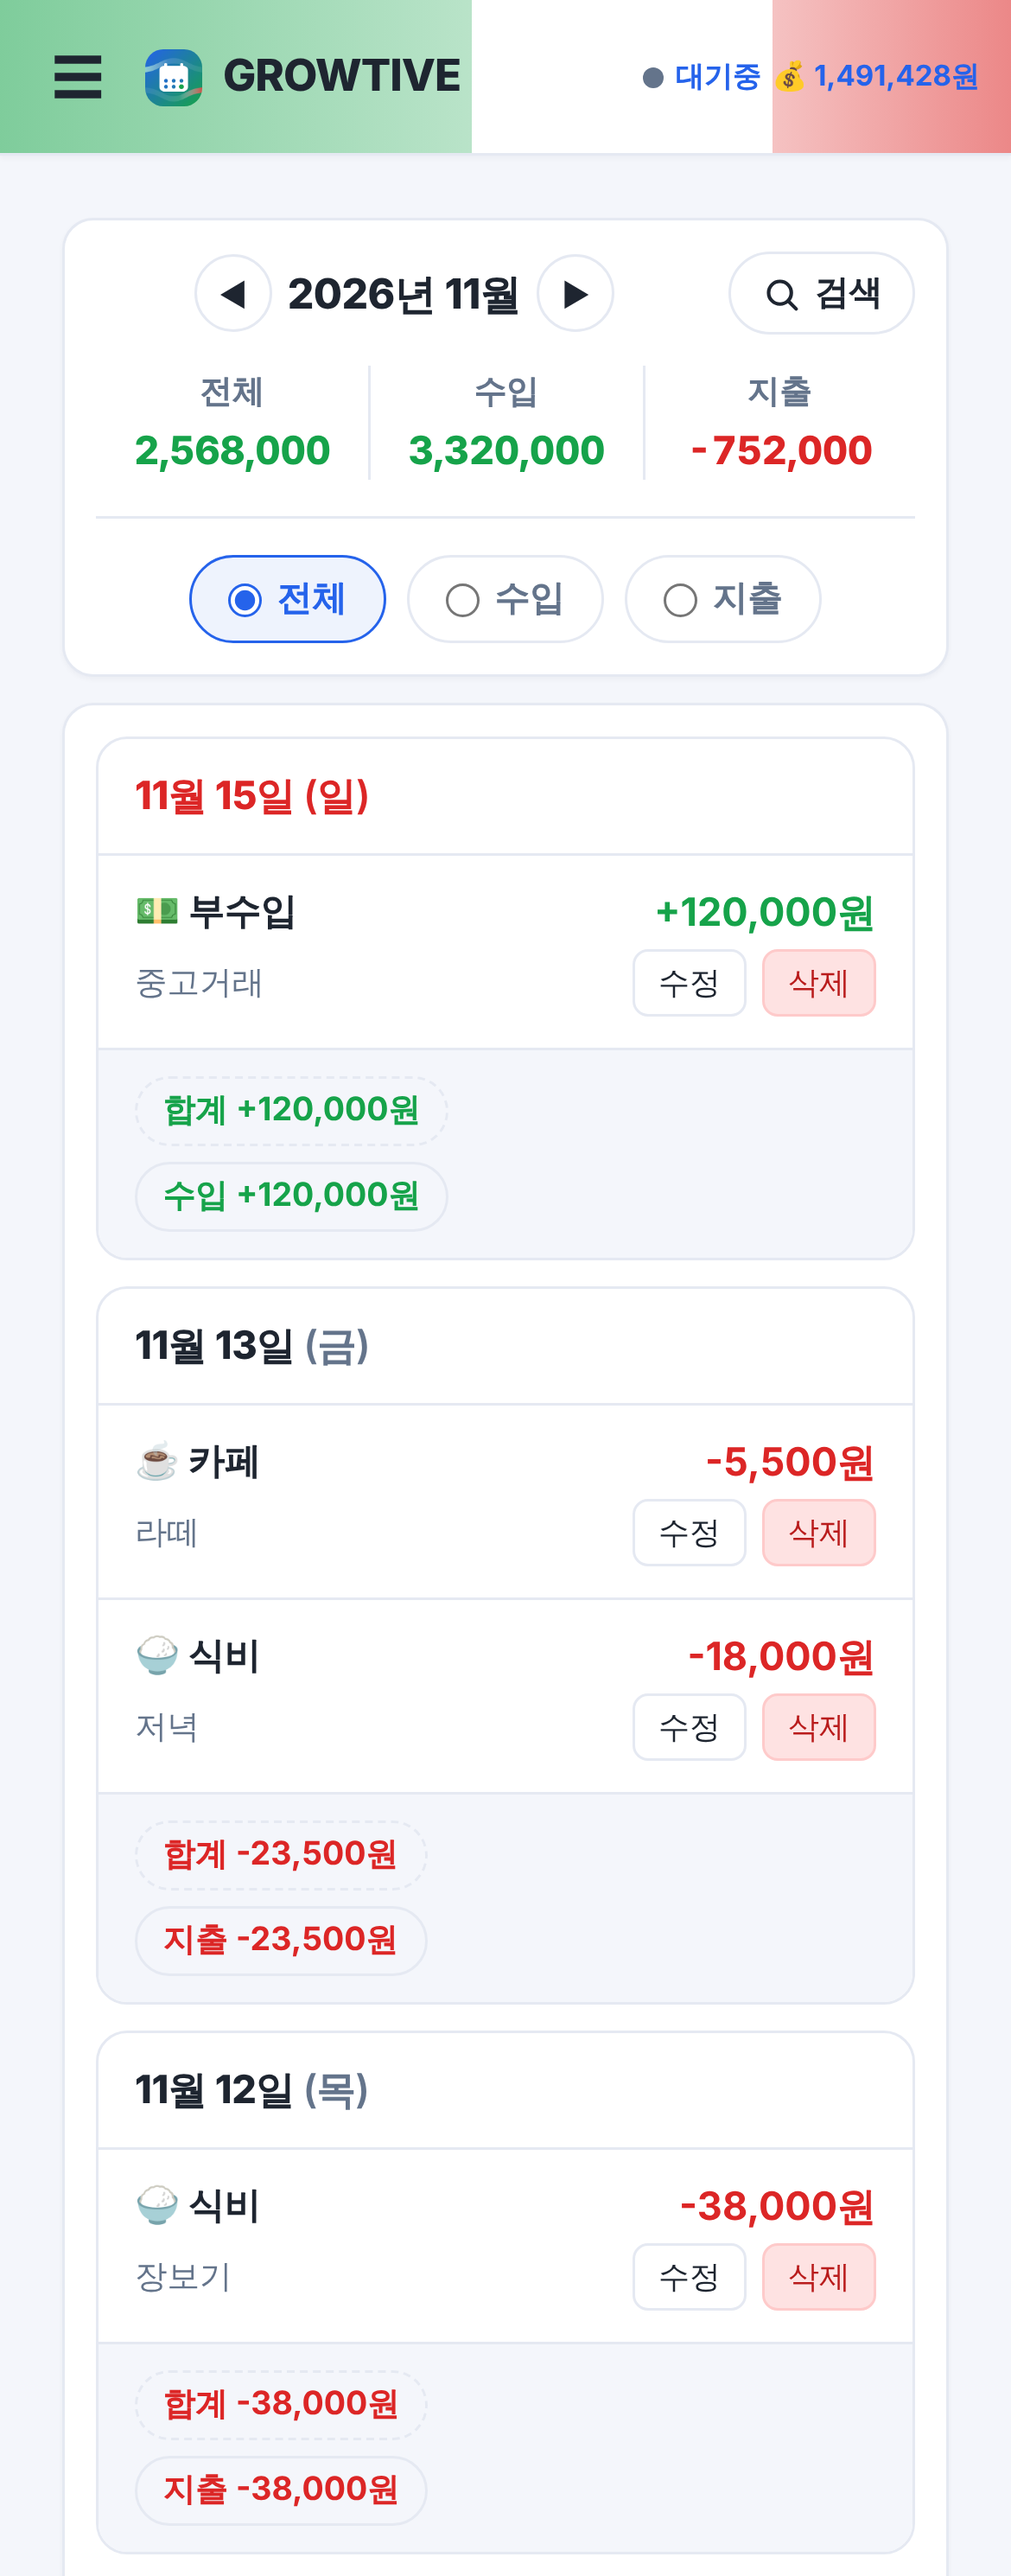
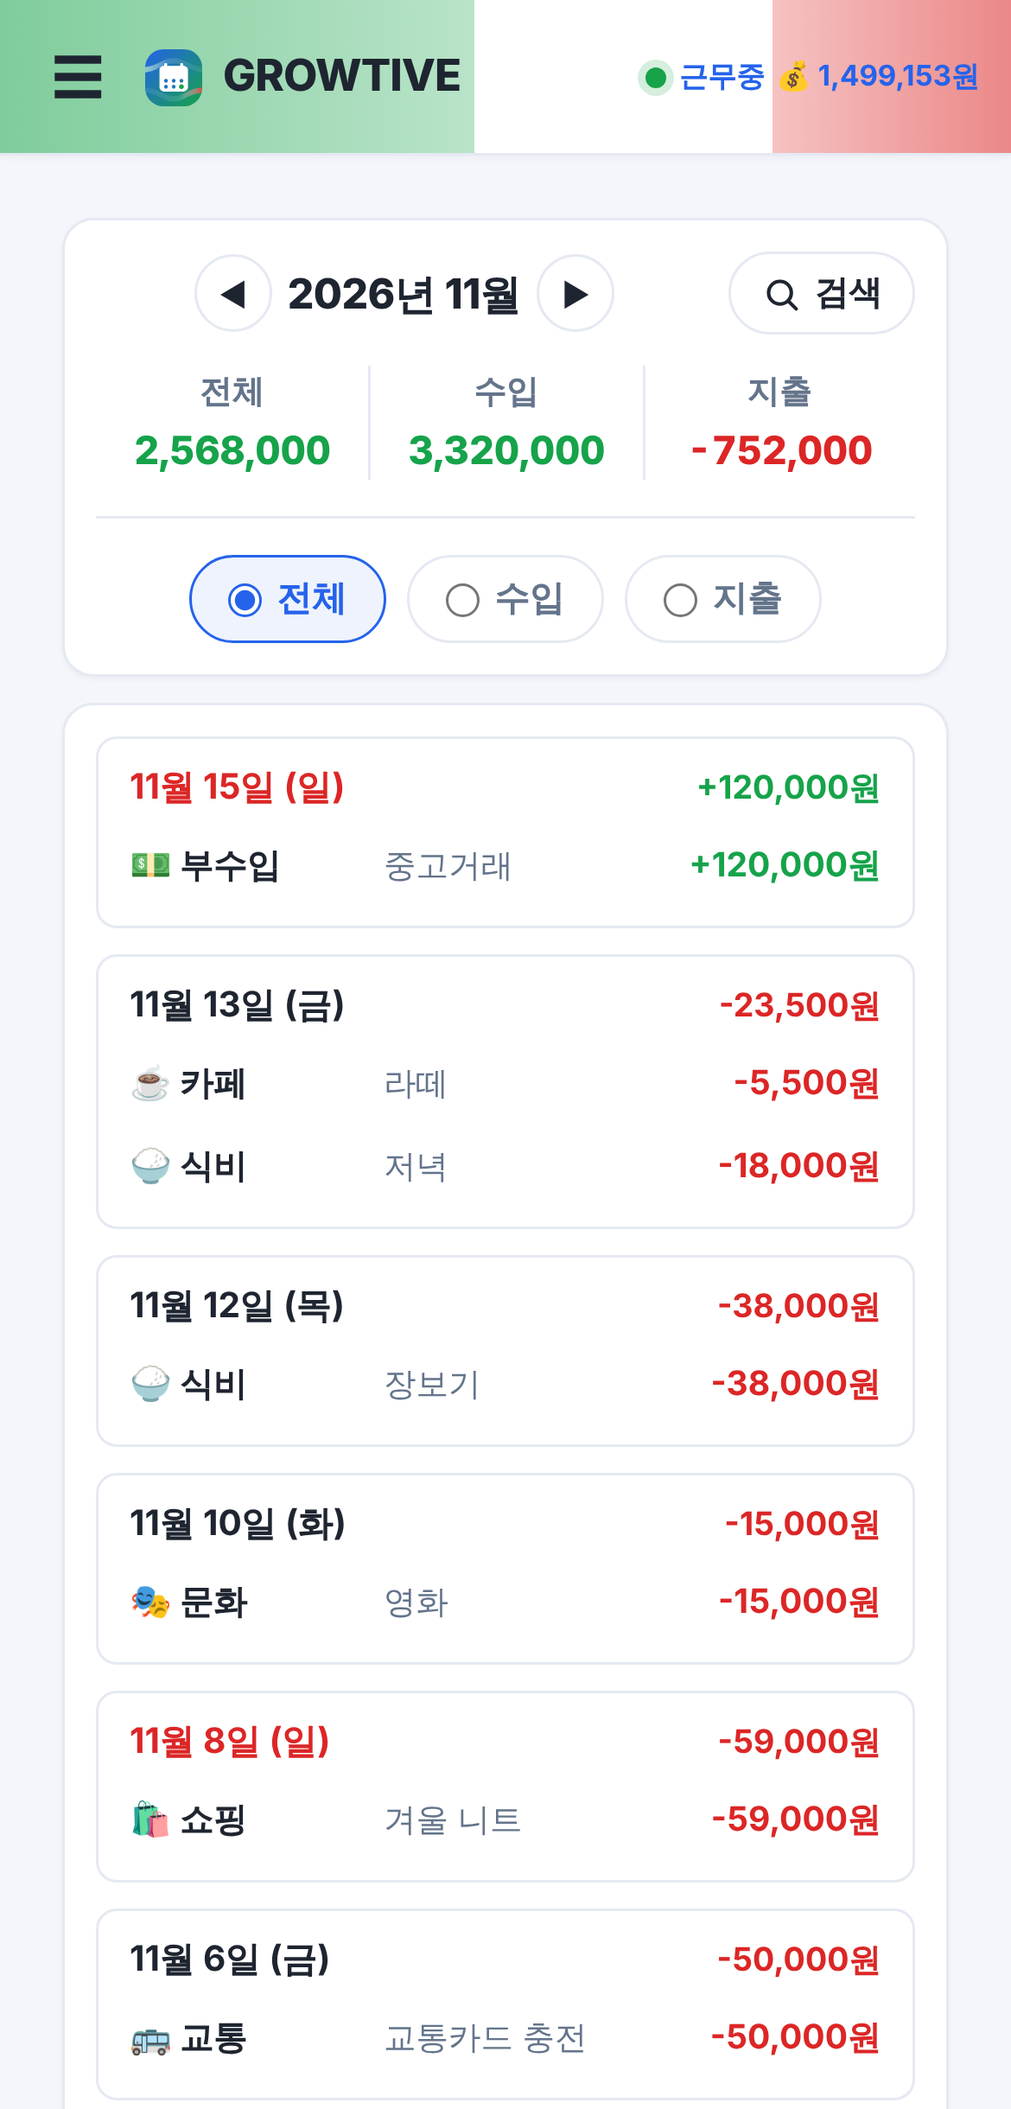
docs: 서비스 소개 자산 내역 스크린샷·설명을 새 목록 모양으로
Claude-Session: https://claude.ai/code/session_01Q8h5sWYYD7dknJRFNMgfCv

diff --git a/src/main/resources/static/app/pages/about/about.page.js b/src/main/resources/static/app/pages/about/about.page.js
@@ -61,10 +61,10 @@ export default function AboutPage() {
           <div class="card about-feature">
             <div class="about-feature-text">
               <h3>🧾 자산 내역</h3>
-              <p>한 달 내역을 날짜별로 모아서 보고, 전체 / 수입 / 지출만 골라볼 수 있어요. [검색]에서 기간(전체·연별·월별·주별·직접 입력), 카테고리, 메모 내용으로 찾고 결과 합계까지 바로 확인하세요.</p>
+              <p>한 달 내역을 날짜별로 한 줄씩 모아서 보고(줄을 누르면 수정·삭제), 전체 / 수입 / 지출만 골라볼 수 있어요. [검색]에서 기간(전체·연별·월별·주별·직접 입력), 카테고리, 메모 내용으로 찾고 결과 합계까지 바로 확인하세요.</p>
               <p>자주 보는 기간은 📌 핀으로 고정해두면 다음에 들어올 때 그 기간으로 바로 열립니다. (어느 기기에서든 그대로)</p>
             </div>
-            <img src="/assets/img/intro/intro-history.png" alt="자산 내역 화면" class="about-feature-img">
+            <img src="/assets/img/intro/intro-history.png?v=2" alt="자산 내역 화면" class="about-feature-img">
           </div>
 
           <div class="card about-feature">

diff --git a/README.md b/README.md
@@ -29,7 +29,7 @@
 - 🗓 **일정 캘린더** — 같은 화면에서 [가계부]/[일정] 전환, 기간/시간/색상 지정, 달력·목록 두 가지 보기
 - 👨👩👧 **공유 캘린더** — 가족·연인과 가계부·일정을 함께 쓰는 캘린더. 초대·수락, 작성자 표시, 꾹 눌러 순서 바꾸기, 👑 관리자(멤버 관리·이름 변경·삭제·권한 넘기기), 나가기, 개인 통계와 분리
 - 📈 **자산 흐름** — 흐름(Sankey) 차트로 이번 달 수입 → 지출을 시각화, 총수입·총지출·잔액 요약
-- 🧾 **자산 내역** — 날짜별 모아보기, 전체/수입/지출 보기, 검색(기간: 전체·연별·월별·주별·직접 입력 / 카테고리 / 메모), 📌 기본 기간 핀(기기 간 유지)
+- 🧾 **자산 내역** — 날짜별 한 줄 목록(누르면 수정·삭제), 전체/수입/지출 보기, 검색(기간: 전체·연별·월별·주별·직접 입력 / 카테고리 / 메모), 📌 기본 기간 핀(기기 간 유지)
 - 👫 **친구 캘린더 비교** — 아이디·닉네임으로 친구를 연결하고 캘린더를 비교. 양쪽이 각자 공유 기간을 지정해야만 비교 가능(사생활 보호), 항목별 숨기기 지원
 - 📋 **복사** — 가계부 내역·일정을 내 캘린더/공유 캘린더 여러 곳에 원하는 날짜로 복사
 - 🙂 **닉네임** — 다른 사람에게는 실명 대신 닉네임 표시, 마이페이지에서 변경
